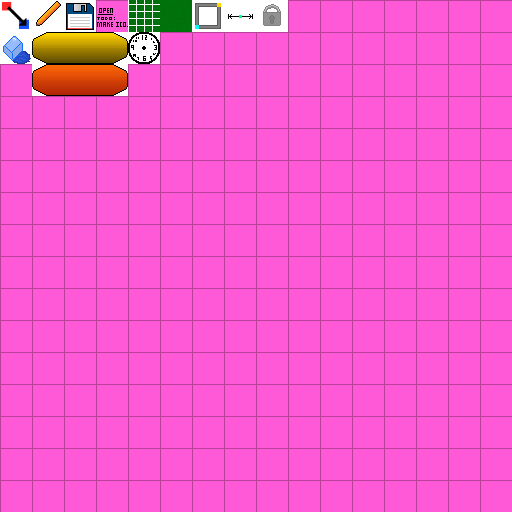
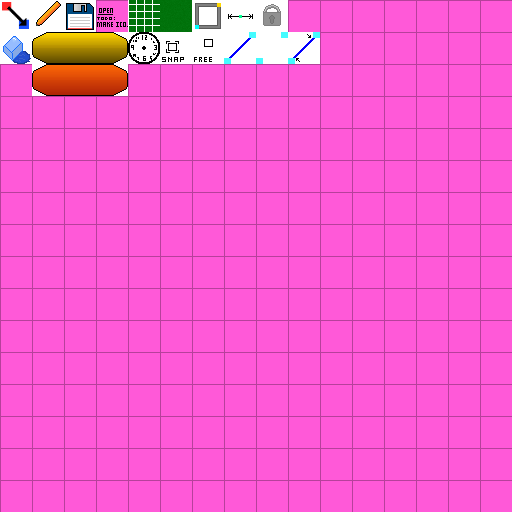
Art for new buttons / Added more sprites for triggers / Added triggers to map

Changed region(s): [[0.3125, 0.0625, 0.625, 0.125]]

diff --git a/game/Map.java b/game/Map.java
@@ -32,12 +32,13 @@ public class Map implements Serializable {
 	 * @param entities Saveable version of map entities, see <code>FileSaver.class</code>
 	 */
 	public Map(String name, String desc, String version,
-			HashMap<Rectangle, Tile> tiles, ArrayList<SerialEntity> entities) {
+			HashMap<Rectangle, Tile> tiles, ArrayList<SerialEntity> entities, ArrayList<Trigger> triggers) {
 		this.name = name;
 		this.desc = desc;
 		this.version = version;
 		this.tiles = tiles;
 		this.entities = entities;
+		this.triggers = triggers;
 	}
 
 }
